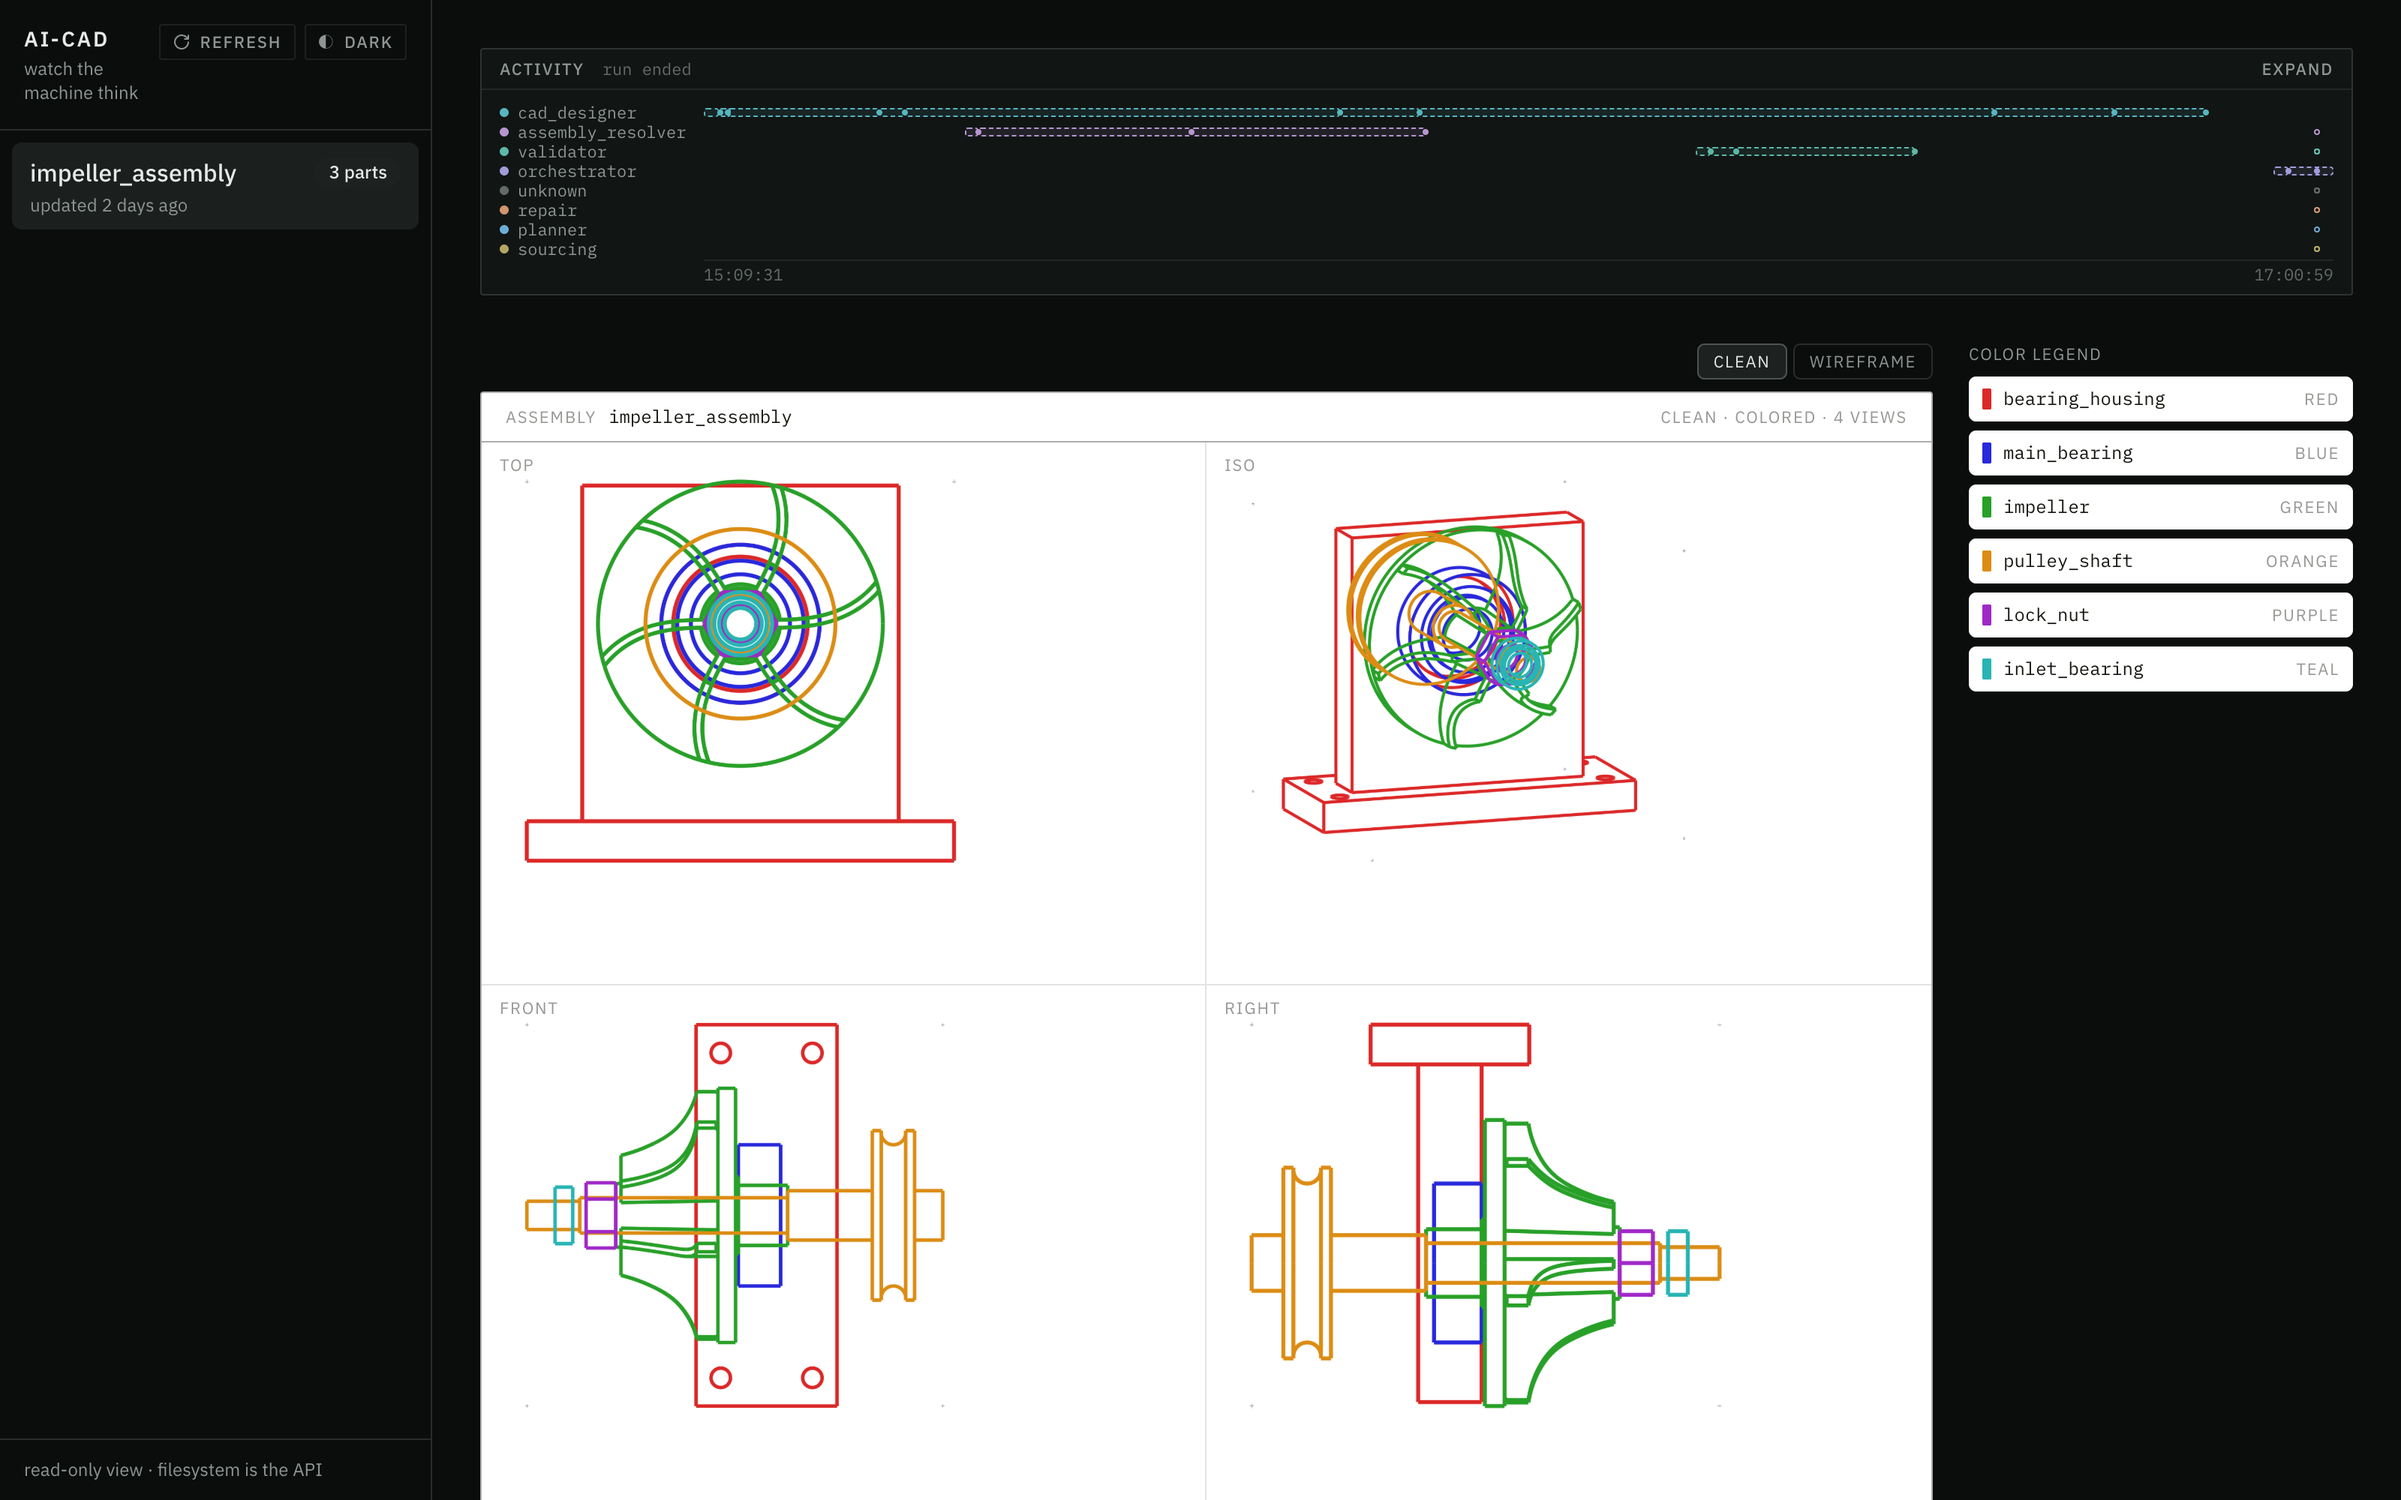
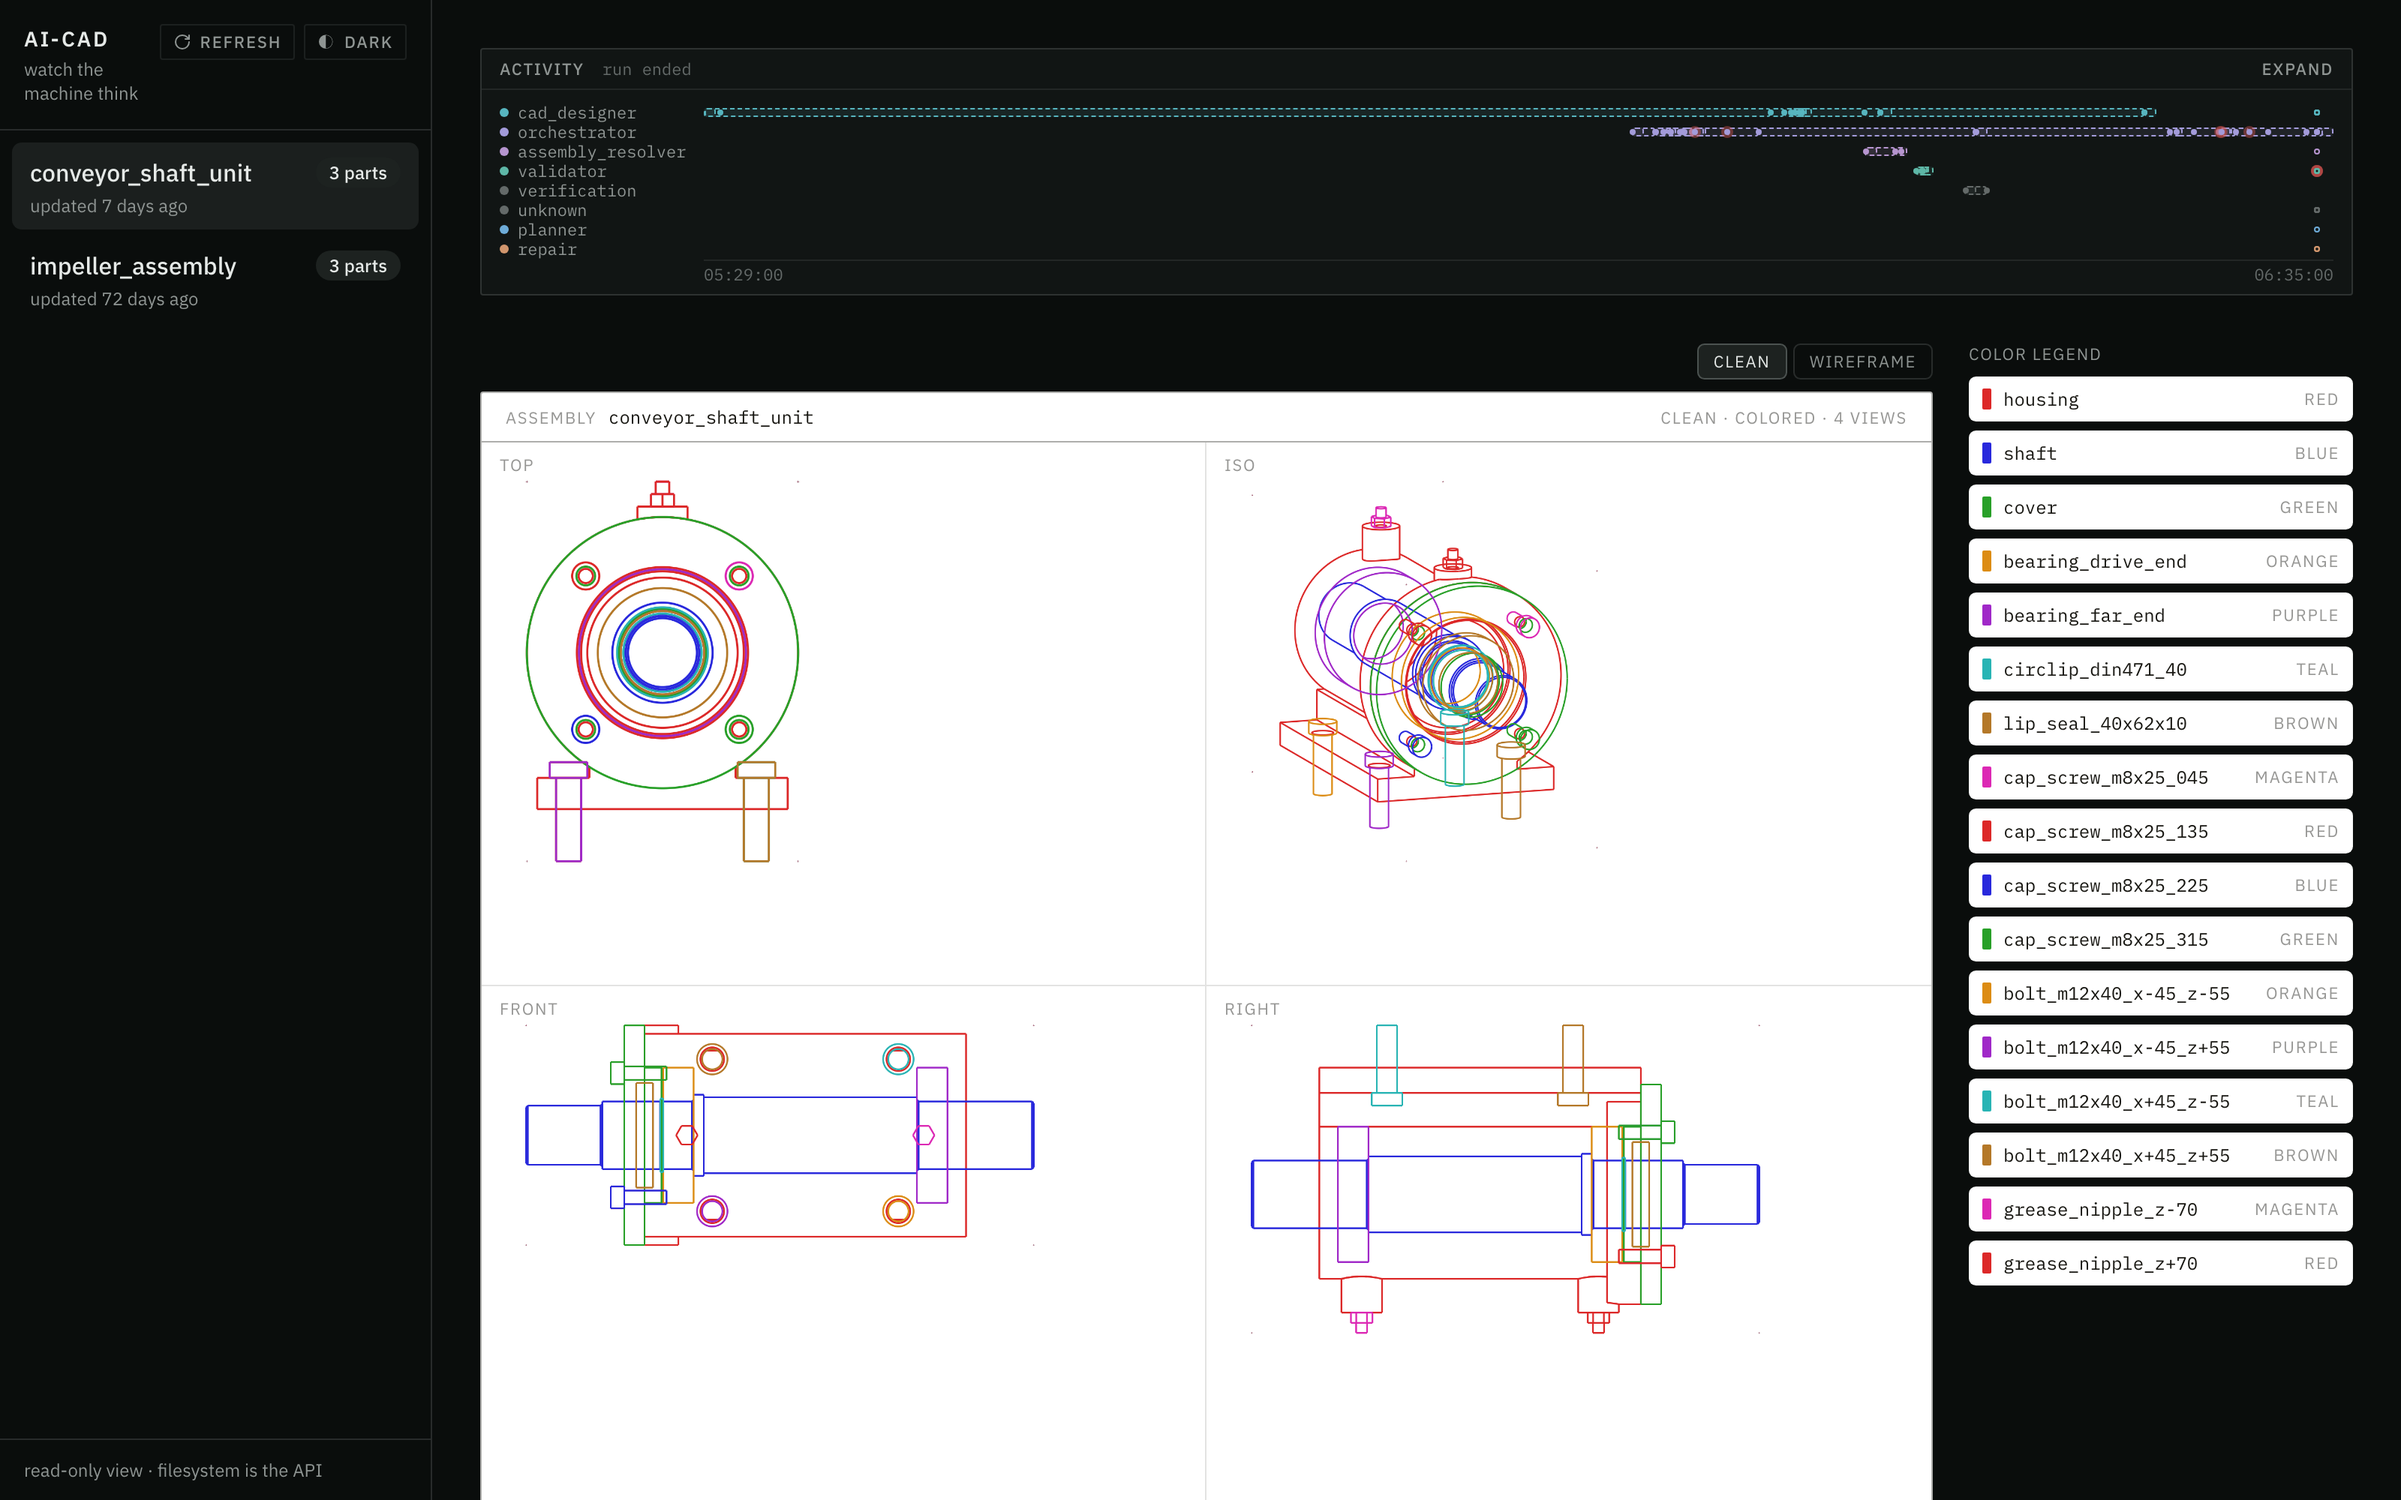
Update the showcase project

diff --git a/profile/README.md b/profile/README.md
@@ -49,11 +49,16 @@ AI-CAD is built on top of your **coding-agent**.
 
 <div align="center">
 
-![The AI-CAD live dashboard after the impeller run: project header with make/buy part counts, revision and conflict counters, part cards with render thumbnails, and the agent activity waterfall](assets/dashboard.png)
+![The AI-CAD live dashboard after the conveyor shaft unit run: project header reading 3 make parts and 6 catalogue lines (9 line items in the bill of materials once washers and nuts are split out), revision and conflict counters, three part cards with isometric render thumbnails and PASSED verdicts, six catalogue-part cards with quantities, and the agent activity waterfall](assets/dashboard.png)
 
 _Your engineering department at work:
 parts land as agents deliver, verdicts post,
-and the [activity waterfall](#live-dashboard) traces every agent in real time._
+and the [activity waterfall](#live-dashboard) traces every agent in real time.
+(This and the drawing-sheet views below are from the
+[`conveyor_shaft_unit`](https://github.com/ai-cad-labs/ai-cad-example-projects/tree/main/conveyor_shaft_unit) run,
+a two-bearing shaft support unit designed from one paragraph of text;
+the shaded cover image further down is the
+[`impeller_assembly`](https://github.com/ai-cad-labs/ai-cad-example-projects/tree/main/impeller_assembly) run.)_
 
 </div>
 
@@ -144,10 +149,12 @@ and follow its [quickstart](https://github.com/ai-cad-labs/ai-cad#get-exploring-
 
 <div align="center">
 
-![The impeller part page in the dashboard: engineering views of the backswept impeller with its validation verdict and DFMA findings](assets/impeller-4view.png)
+![The housing part page in the dashboard: top, isometric, front and right engineering views of a cast two-bore bearing housing with a four-bolt foot and two grease bosses, with its PASSED validation stamp](assets/housing-4view.png)
 
 _Eight views per part, judged like a drawing sheet:
-this is what the vision evaluator sees before any geometry ships._
+this is what the vision evaluator sees before any geometry ships.
+The part is the grey-iron housing of the conveyor shaft unit;
+its bores, shoulders, wall and bolt pattern were each measured on the solid._
 
 </div>
 
@@ -159,11 +166,11 @@ this is what the vision evaluator sees before any geometry ships._
 
 <div align="center">
 
-![The dashboard's assembly page after the impeller run: the full assembly in four colored engineering views (top, iso, front, right) with a per-part color legend and the agent activity waterfall](assets/assembly-4view.png)
+![The dashboard's assembly page after the conveyor shaft unit run: the full 17-component assembly in four colored engineering views (top, iso, front, right) with a per-part color legend and the agent activity waterfall](assets/assembly-4view.png)
 
-_2 hours of autonomous design, traced live:
+_Three hours of autonomous design, traced live:
 the agent waterfall above,
-the assembly taking shape in four engineering views._
+the shaft, housing, cover, two bearings and twelve fasteners taking shape in four engineering views._
 
 </div>
 
@@ -185,6 +192,7 @@ No geometry there was human-authored.
 | Run | What it built | The numbers | Wall clock |
 |---|---|---|---|
 | [`impeller_assembly`](https://github.com/ai-cad-labs/ai-cad-example-projects/tree/main/impeller_assembly) | A belt-driven centrifugal compressor core, from a hand-drawn sketch ([the case study](#case-study)) | 6 components (3 designed, 3 catalog) · 0.8000 mm clearance measured five ways · 6 backswept blades at 10.5° · reviewer verdict: ship | ~2h12m |
+| [`conveyor_shaft_unit`](https://github.com/ai-cad-labs/ai-cad-example-projects/tree/main/conveyor_shaft_unit) | A two-bearing conveyor shaft support unit, from one paragraph of text ([the second case study](#case-study-2)) | 3 designed parts right first time · 9 catalogue items · 136-pair interference sweep · 0 valid gate rejections · reviewer verdict: ship, then downgraded by the run's own verification to pause-for-human with three installation defects named | ~3h after planning (5h31m total, 1h55m lost to a bad network link) |
 | [`piston_crank`](https://github.com/ai-cad-labs/ai-cad-example-projects/tree/main/piston_crank) | The 5-part IC-engine core at top-dead-center | 7-instance assembly · a locked dimension chain that held end-to-end · mid-run self-checkpoint and cold resume | 71.3 min |
 | [`spur_gear`](https://github.com/ai-cad-labs/ai-cad-example-projects/tree/main/spur_gear) | A meshing involute gear pair | Deterministic mesh proof: 0.00 mm³ interference at the correct half-tooth phase · 0 repair cycles | ~49.8 min |
 | [`treasure_chest`](https://github.com/ai-cad-labs/ai-cad-example-projects/tree/main/treasure_chest) | The control baseline: a 4-part chest | 13 agents, 0 failures, 0 repairs · 3 findings deferred with written reasoning | 32.8 min |
@@ -252,6 +260,70 @@ is public:
 [`run_reflection.md`](https://github.com/ai-cad-labs/ai-cad-example-projects/blob/main/impeller_assembly/run_reflection.md).
 
 [Read the full exhibit](https://github.com/ai-cad-labs/ai-cad-example-projects/tree/main/impeller_assembly) | [Browse all runs](https://github.com/ai-cad-labs/ai-cad-example-projects)
+
+</details>
+
+<a name="case-study-2"></a>
+
+<details>
+<summary>
+<h2>Case Study : Conveyor Shaft Unit : the run that caught itself</h2>
+
+<div align="center">
+
+![A two-bearing shaft support unit in shaded isometric: grey-iron housing with two in-line bores, a four-bolt foot and two grease bosses in red, the bolted seal cover in green, the turned shaft in blue](assets/conveyor-iso-filled.png)
+
+**Designed end-to-end from one paragraph of text, no sketch:**
+_a 40 mm conveyor shaft on two 6208 bearings in a cast two-bore housing with a bolted seal cover,
+rendered from the design run's assembly geometry._
+
+Details: the [`conveyor_shaft_unit`](https://github.com/ai-cad-labs/ai-cad-example-projects/tree/main/conveyor_shaft_unit) run in the public gallery.
+
+</div>
+
+</summary>
+
+The impeller shows the system defending the user against its tooling.
+This run shows the other half of a manufacturing gate with judgment:
+clean work, and then the system refusing to call it finished.
+Every claim below is on file in the exhibit.
+
+The brief was one paragraph:
+shaft diameter, speed, loads, service life, bearing size, fits, chamfers, a minimum wall, a grease nipple reachable from above.
+
+- **Three parts, right first time, and no repair loop.**
+  The shaft, the housing and the cover each executed on the first attempt
+  (each from one closed profile the lead engineer agent resolved from the plan);
+  the two repairs in the whole run were one-constant changes,
+  the regression gate never validly rejected anything, and no two agents conflicted.
+  Every dimension the brief named was measured on the finished solid:
+  Ø40.000 seats, Ø80.000 bores on one axis, an 18.000 mm bearing clamp, 1.500 mm of float, an 8 mm wall 99.7 % intact.
+- **Sourcing found what geometry cannot.**
+  Catalogue arithmetic put the specified bearing's life at 14,094 hours against the 20,000 the brief asked.
+  The system kept the customer's bearing, costed three resolutions and marked the question for a human
+  rather than silently moving a number the brief had fixed.
+- **A clash found by asymmetry, fixed with one constant, defended against a faulty checker.**
+  The interference sweep found a flange clipping two foot-bolt heads by 6.4 mm³ while the mirror pair read exactly zero.
+  One constant fixed it.
+  The regression gate then rejected the fix after comparing the proposal against itself;
+  the lead engineer overrode the verdict on four measured grounds and re-proved the fix from independent code.
+- **Then it caught itself.**
+  The sign-off reviewer said ship.
+  The manufacturing review, still running, came back with two installation defects;
+  the run's own verification pass confirmed both from scratch,
+  found a third by questioning its own first draft
+  (the brief's 1 mm chamfer cannot seat a bearing with a 1.1 mm corner radius),
+  and downgraded the verdict in writing, with the numbers.
+
+A system that can say "not yet" with evidence is worth more to a workshop than one that only says yes.
+The full record, downgrade included, is public and unedited:
+
+  3 designed parts, 9 catalogue items,
+  fifteen agent spawns in one session,
+  two repair cycles, zero valid gate rejections,
+  reviewer verdict: ship; effective status: pause for a human, three defects named.
+
+[Read the full exhibit](https://github.com/ai-cad-labs/ai-cad-example-projects/tree/main/conveyor_shaft_unit) | [Browse all runs](https://github.com/ai-cad-labs/ai-cad-example-projects)
 
 </details>
 
